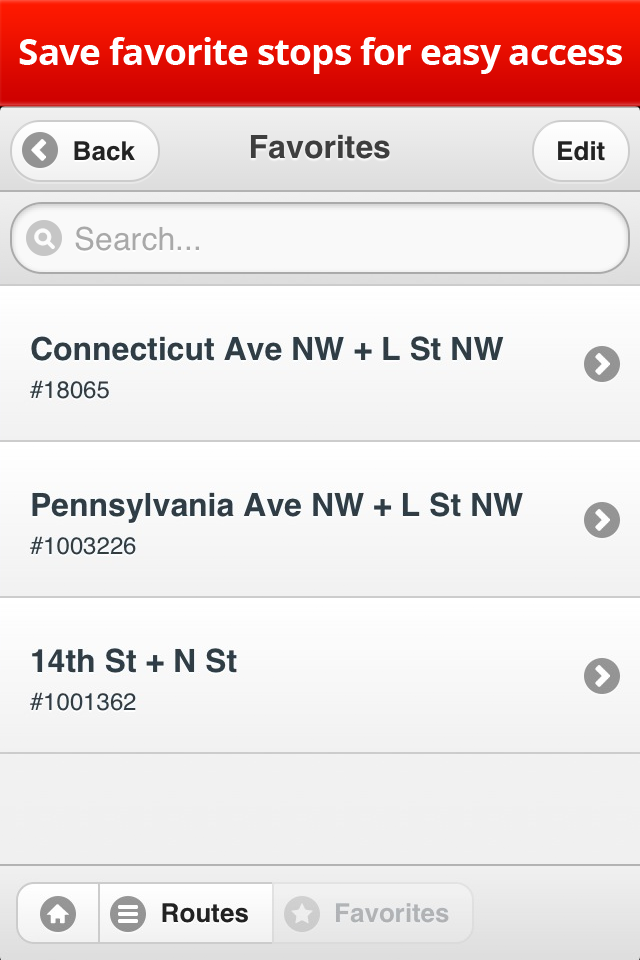
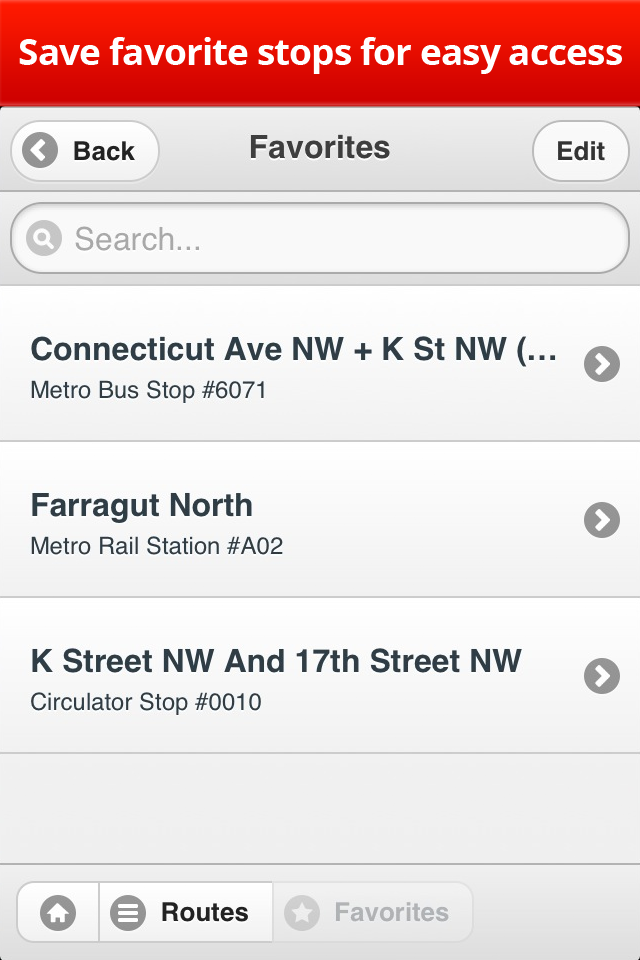
Circulator 1.4 update

diff --git a/index.html b/index.html
@@ -64,7 +64,7 @@
     	}
     </style>
     
-    <meta property="og:title" content="BusTrackDC -- Find out when your bus or train is arriving"/> <meta property="og:description" content="Do you live in Washington, DC and ride the bus or train? BusTrackDC tells you when the next bus or train arrives! (And lets you find nearby bus and rail stops, save favorite stops, and see route maps.) Free for iPhone -- download it today!"/><meta property="og:image" content="http://j-ro.github.com/WheresTheBusDC/images/bustrack-icon.jpg"/>
+    <meta property="og:title" content="BusTrackDC -- Find out when your Metro bus, Circulator, or Metro train is arriving"/> <meta property="og:description" content="Do you live in Washington, DC and ride Metro bus, the circulator, or Metro rail? BusTrackDC tells you when the next bus or train arrives! (And lets you find nearby bus and rail stops, save favorite stops, and see route maps.) Free for iPhone -- download it today!"/><meta property="og:image" content="http://j-ro.github.com/WheresTheBusDC/images/bustrack-icon.jpg"/>
     
     <link rel="icon" type="image/jpeg" href="images/bustrack-icon.jpg" />
 
@@ -77,13 +77,13 @@
         <header>
         	<a href="https://itunes.apple.com/us/app/bustrackdc/id597188689?ls=1&amp;mt=8"><img src="images/bustrack-icon.jpg" class="header-image" /></a>
           <h1>BusTrackDC</h1>
-          <small>version 1.3</small>
-          <h2>Do you live in Washington, DC and ride the bus or train?<br/>BusTrackDC tells you when the next bus or train arrives!</h2>
+          <small>version 1.4</small>
+          <h2>Live in DC and ride Metro bus, rail, or the Circulator? BusTrackDC tells you when the next one arrives!</h2>
         </header>
         
 
         
-       <p class="clear padding-top"><strong>NEW FEATURE: Now with Metro Rail stops!</strong> <br/>Get BusTrackDC for FREE for your iPhone on the app store -- <a href="https://itunes.apple.com/us/app/bustrackdc/id597188689?ls=1&amp;mt=8">click here!</a></p>
+       <p class="clear padding-top"><strong>NEW FEATURE: Now with Circulator bus stops!</strong> <br/>Get BusTrackDC for FREE for your iPhone on the app store -- <a href="https://itunes.apple.com/us/app/bustrackdc/id597188689?ls=1&amp;mt=8">click here!</a></p>
 
         <div class="center">       
 	        <a href="https://itunes.apple.com/us/app/bustrackdc/id597188689?ls=1&amp;mt=8" ><img src="https://raw.github.com/j-ro/WheresTheBusDC/master/appstore/appstore.png"></a>
@@ -104,7 +104,7 @@
        
 
 
-<p><strong>Where's the nearest bus or rail stop? When's my bus or train coming? Is that bus or train going my way?</strong> Find out in real time thanks to WMATA's data feeds and BusTrackDC. And now you can save your favorite stops for easy access!</p>
+<p><strong>Where's the nearest Metro bus, Circulator, or Metro rail stop? When's my bus or train coming? Is that bus or train going my way?</strong> Find out in real time with BusTrackDC. Then save your favorite stops for easy access or search for route maps by name!</p>
 
 <p>I take the bus and train to work and I made BusTrackDC after my favorite app stopped working. I hope you find it as useful as I do!</p>
 
@@ -123,6 +123,8 @@
         <p><strong>"What I loved about it was how simple and uncomplicated it was to use...I think it's a great app!"</strong> <em>-- <a href="http://www.wusa9.com/news/article/242095/431/New-App-Finds-Bus-Stops-Routes-And-Times-In-DC" target="_blank">Monika Samtani, WUSA9</em></a></p>
         
         <p><strong>"VERDICT: A very good replacement for NextBus."</strong> <em>-- <a href="http://www.huffingtonpost.com/2013/02/06/dc-bus-app_n_2632934.html" target="_blank">Huffington Post DC</em></a></p>
+        
+        <p><strong>"This [app] I find really, really useful because if anyone has tried to use the bus around here, it can be so frustrating!"</strong> <em>-- <a href="http://www.youtube.com/watch?v=B7D-0ZAnxAk" target="_blank">Kate Michael, The District Dish</em></a></p>
         
         <p><strong>"BusTrackDC Adds Some Needed Competition to the D.C. Bus App Market"</strong> <em>-- <a href="http://inthecapital.com/2013/02/06/bustrackdc-adds-some-needed-competition-to-the-d-c-bus-app-market/#ss__39574_1_0__ss" target="_blank">Carl Pierre, InTheCapital.com</em></a></p>
         
